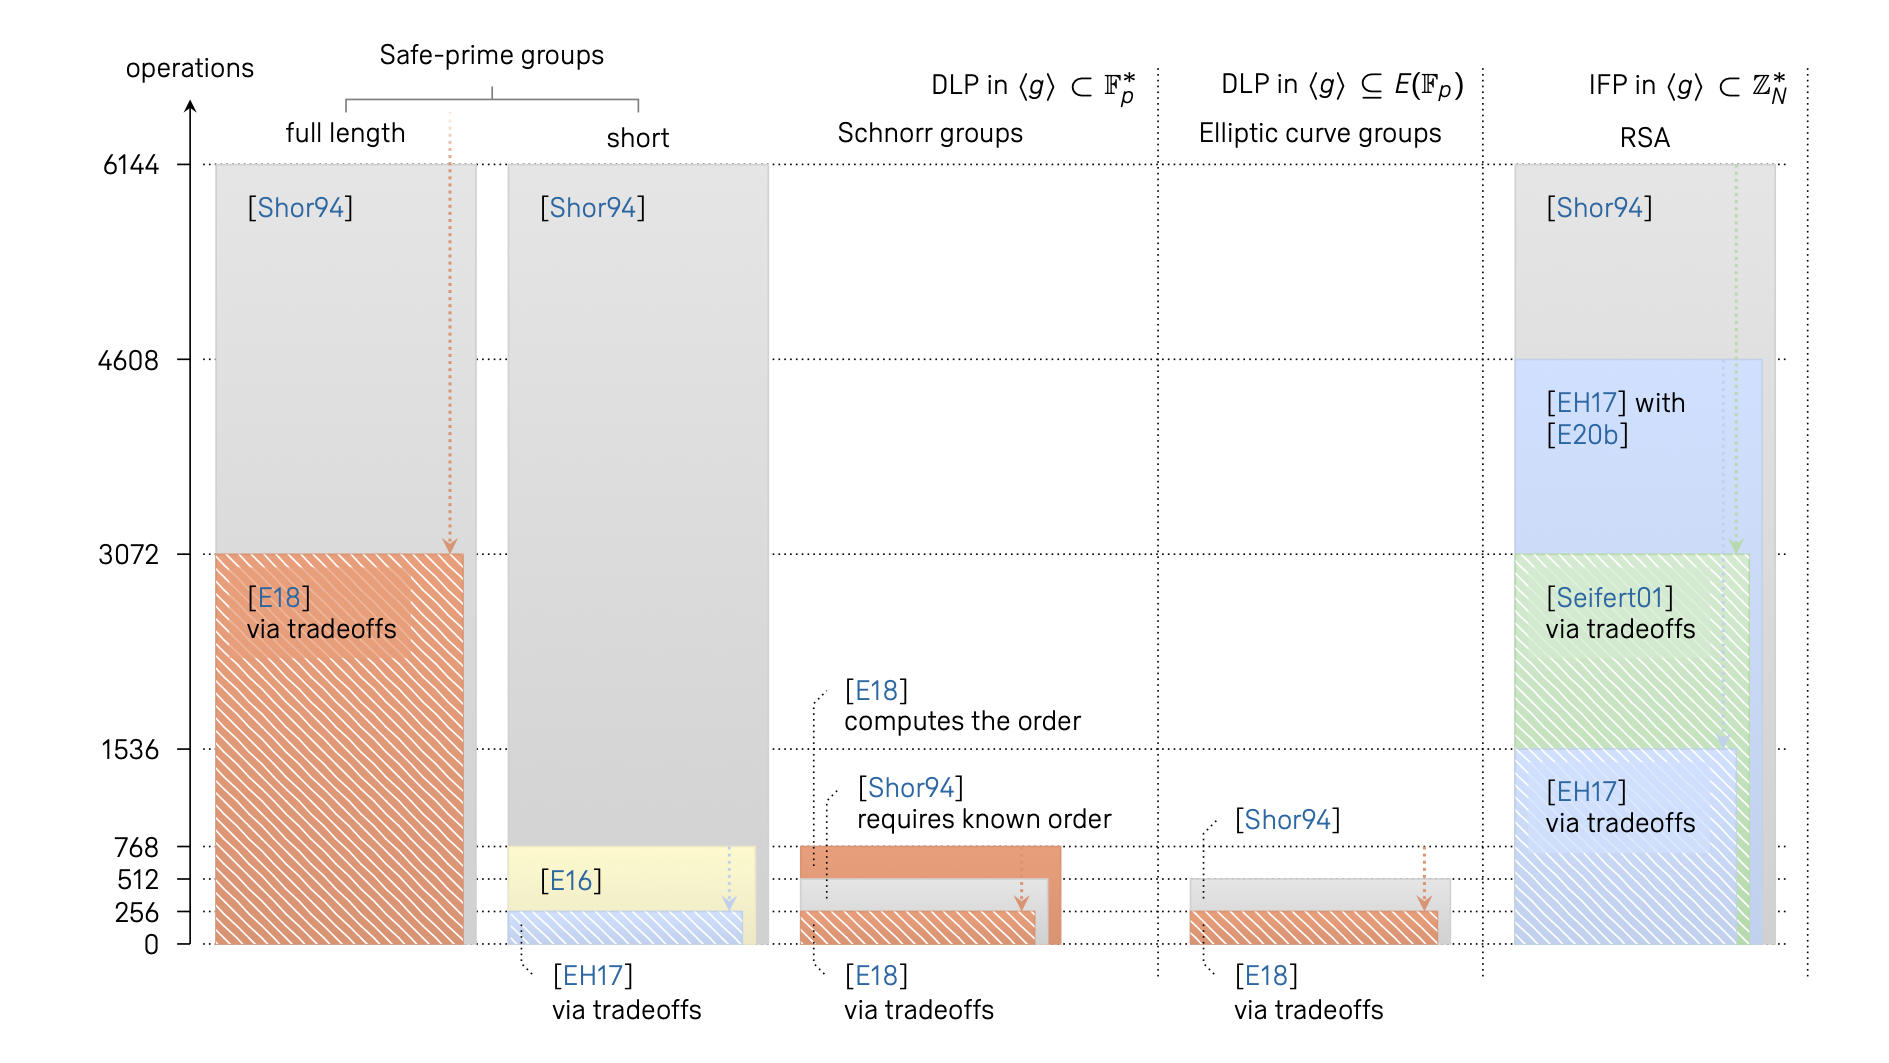
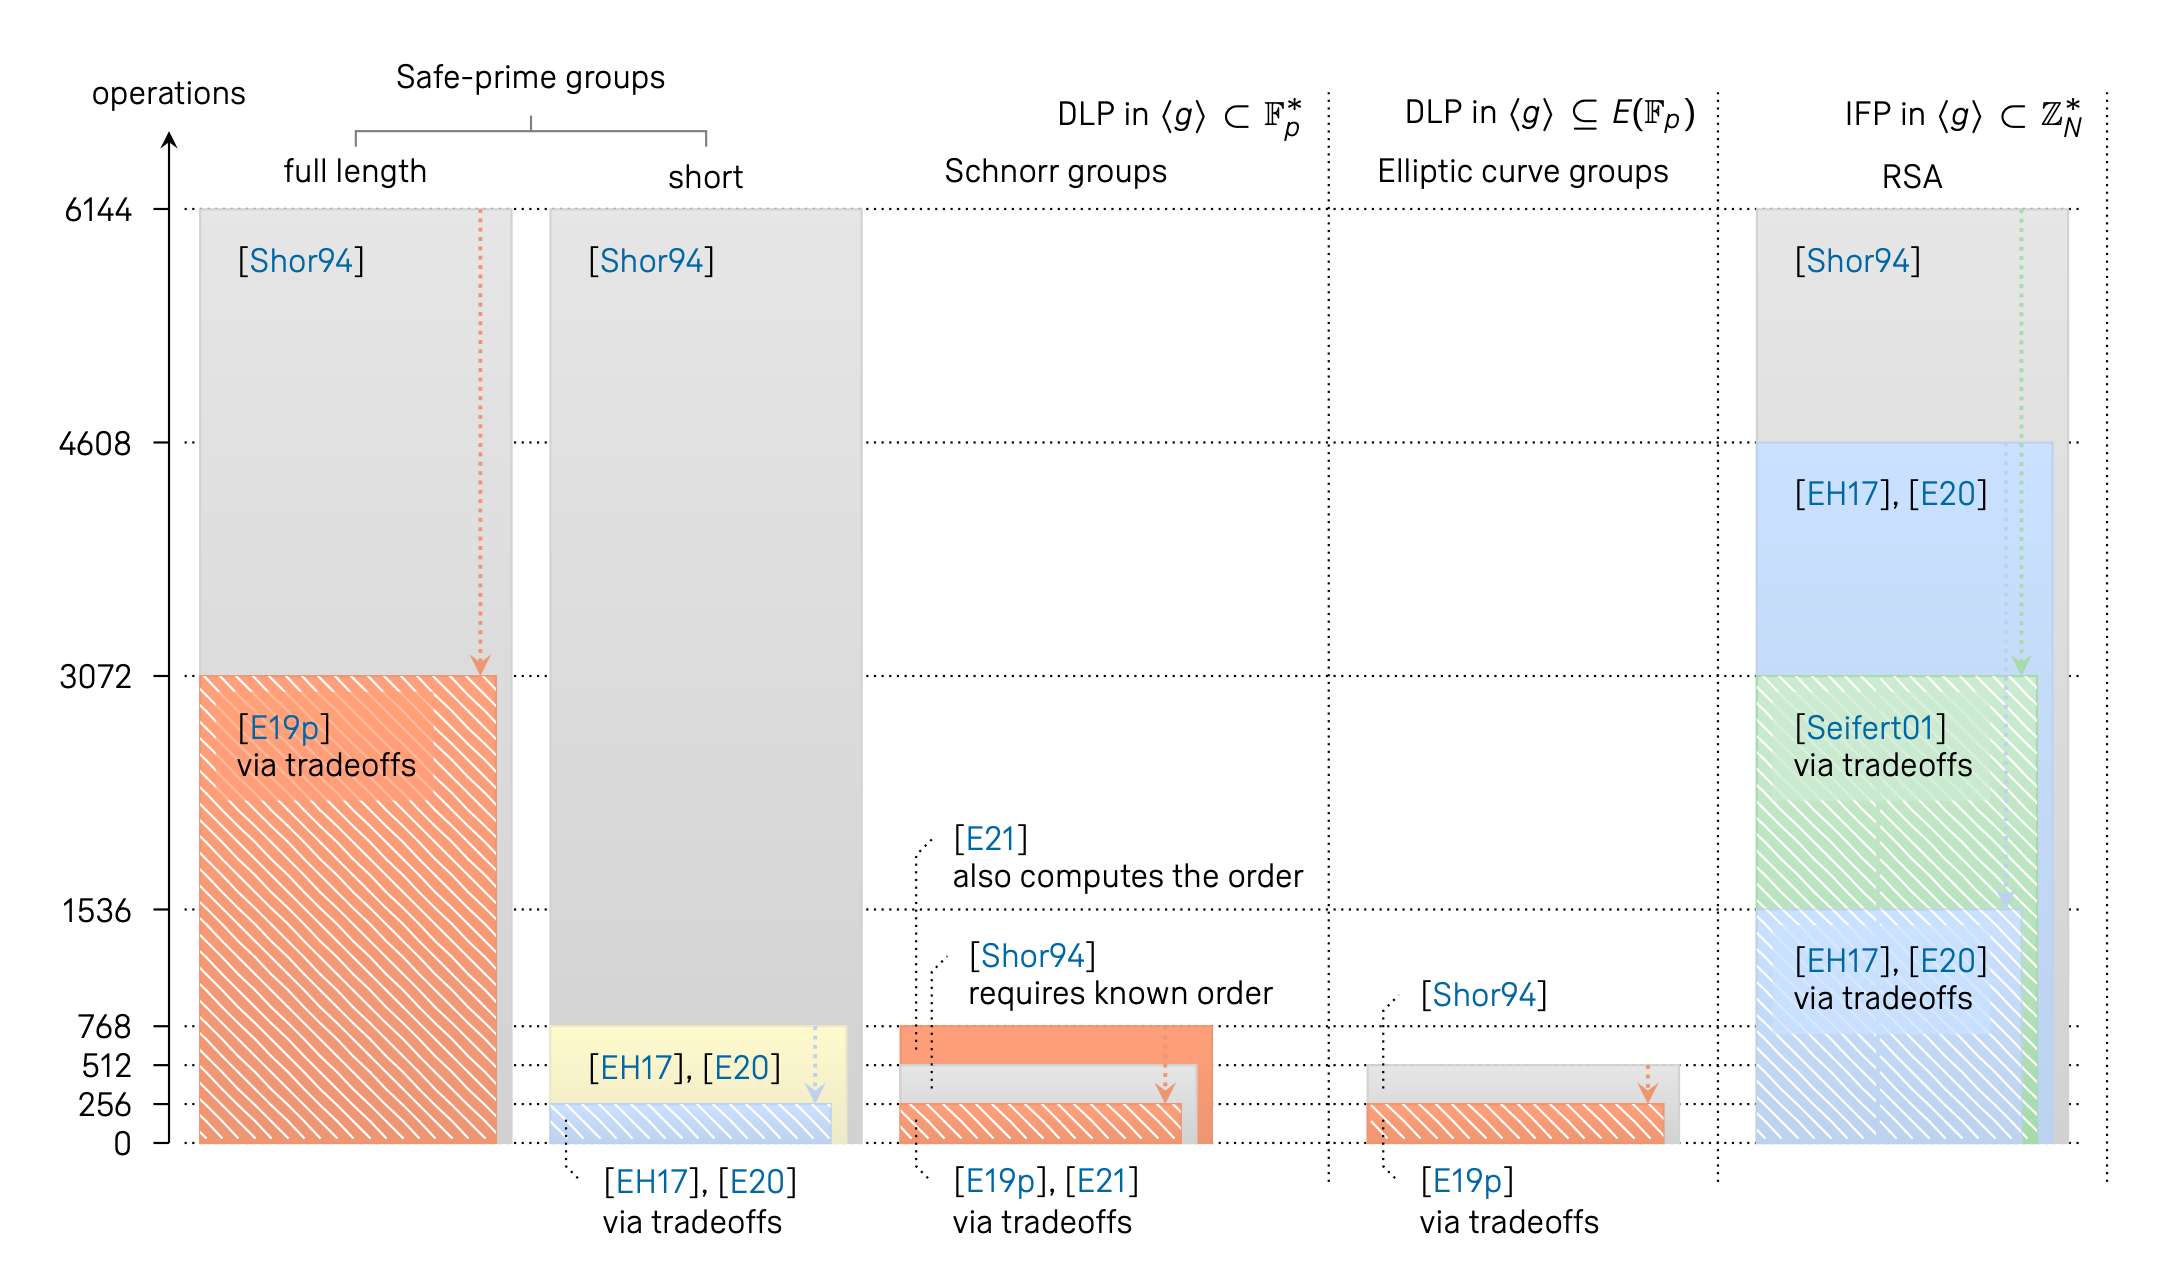
Updated the bibliographical references in the documentation

diff --git a/docs/pages/doxygen-main.md b/docs/pages/doxygen-main.md
@@ -1,17 +1,16 @@
 # Qunundrum
 This repository contains the source code of MPI programs for computing the probability distributions induced by:
 
-* Shor's order-finding algorithm [[Shor94]](https://arxiv.org/pdf/quant-ph/9508027.pdf)
-* Seifert's order-finding algorithm with tradeoffs [[Seifert01]](https://link.springer.com/chapter/10.1007%2F3-540-45353-9_24)
-* Ekerå's algorithm for computing short discrete logarithms [[E16]](https://eprint.iacr.org/2016/1128.pdf)
-* Ekerå–Håstad's algorithm for computing short discrete logarithms with tradeoffs [[EH17]](https://link.springer.com/chapter/10.1007/978-3-319-59879-6_20) [(Slides)](https://2017.pqcrypto.org/conference/slides/quantum/ekera-hastad-complex.pdf) [[E20b]](https://doi.org/10.1007/s10623-020-00783-2)
-* Ekerå–Håstad's algorithm for factoring RSA integers with tradeoffs [[EH17]](https://link.springer.com/chapter/10.1007/978-3-319-59879-6_20) [(Slides)](https://2017.pqcrypto.org/conference/slides/quantum/ekera-hastad-complex.pdf) [[E20b]](https://doi.org/10.1007/s10623-020-00783-2)
-* Ekerå's algorithm for computing general discrete logarithms and orders with tradeoffs [[E18]](https://eprint.iacr.org/2018/797.pdf)
-* Shor's algorithm for computing general discrete logarithms [[Shor94]](https://arxiv.org/pdf/quant-ph/9508027.pdf) with modifications [[E19]](https://arxiv.org/pdf/1905.09084.pdf)
+* Shor's order-finding algorithm [[Shor94]](https://doi.org/10.1109/SFCS.1994.365700) [[Shor97]](https://doi.org/10.1137/S0097539795293172)
+* Seifert's order-finding algorithm with tradeoffs [[Seifert01]](https://doi.org/10.1007/3-540-45353-9_24)
+* Ekerå–Håstad's algorithm for computing short discrete logarithms with tradeoffs [[EH17]](https://doi.org/10.1007/978-3-319-59879-6_20) [(Slides)](https://2017.pqcrypto.org/conference/slides/quantum/ekera-hastad-complex.pdf) [[E20]](https://doi.org/10.1007/s10623-020-00783-2)
+* Ekerå–Håstad's algorithm for factoring RSA integers with tradeoffs [[EH17]](https://doi.org/10.1007/978-3-319-59879-6_20) [(Slides)](https://2017.pqcrypto.org/conference/slides/quantum/ekera-hastad-complex.pdf) [[E20]](https://doi.org/10.1007/s10623-020-00783-2)
+* Ekerå's algorithm for computing general discrete logarithms and orders with tradeoffs [[E21]](https://doi.org/10.1515/jmc-2020-0006)
+* Shor's algorithm for computing general discrete logarithms [[Shor94]](https://doi.org/10.1109/SFCS.1994.365700) [[Shor97]](https://doi.org/10.1137/S0097539795293172) with modifications [[E19p]](https://arxiv.org/pdf/1905.09084.pdf)
 
 Once computed the distributions may be sampled to simulate the quantum algorithms. This is possible for large cryptographically relevant problem instances. Note however that the solution to the problem (i.e. the group order, the discrete logarithm, or in some cases both) must be known.
 
-This repository furthermore contains the source code of MPI programs that estimate the number of vectors that need to be enumerated in the classical lattice-based post-processing algorithms of Ekerå and Ekerå–Håstad, and of MPI programs that execute the post-processing algorithms with respect to simulated outputs from the quantum algorithms. For completeness, implementations of Shor's original post-processing algorithms are also provided. See also [[E20a]](https://arxiv.org/pdf/2007.10044.pdf) and [this repository](https://github.com/ekera/factoritall) for resources on efficiently factoring any integer after a single call to an order-finding algorithm.
+This repository furthermore contains the source code of MPI programs that estimate the number of vectors that need to be enumerated in the classical lattice-based post-processing algorithms of Ekerå and Ekerå–Håstad, and of MPI programs that execute the post-processing algorithms with respect to simulated outputs from the quantum algorithms. For completeness, implementations of Shor's original post-processing algorithms are also provided. See also [[E21b]](https://doi.org/10.1007/s11128-021-03069-1) and [this repository](https://github.com/ekera/factoritall) for resources on efficiently factoring any integer after a single call to an order-finding algorithm.
 
 ### Remarks
 Note that this source code was developed for academic research purposes. It grew out of our research project in an organic manner as research questions were posed and answered. It is distributed "as is" without warranty of any kind, either expressed or implied. For further details on the terms of use, see the [license](LICENSE.md).

diff --git a/README.md b/README.md
@@ -3,17 +3,16 @@
 # Qunundrum
 This repository contains the source code of MPI programs for computing the probability distributions induced by:
 
-* Shor's order-finding algorithm [[Shor94]](https://arxiv.org/pdf/quant-ph/9508027.pdf)
-* Seifert's order-finding algorithm with tradeoffs [[Seifert01]](https://link.springer.com/chapter/10.1007%2F3-540-45353-9_24)
-* Ekerå's algorithm for computing short discrete logarithms [[E16]](https://eprint.iacr.org/2016/1128.pdf)
-* Ekerå–Håstad's algorithm for computing short discrete logarithms with tradeoffs [[EH17]](https://link.springer.com/chapter/10.1007/978-3-319-59879-6_20) [(Slides)](https://2017.pqcrypto.org/conference/slides/quantum/ekera-hastad-complex.pdf) [[E20b]](https://doi.org/10.1007/s10623-020-00783-2)
-* Ekerå–Håstad's algorithm for factoring RSA integers with tradeoffs [[EH17]](https://link.springer.com/chapter/10.1007/978-3-319-59879-6_20) [(Slides)](https://2017.pqcrypto.org/conference/slides/quantum/ekera-hastad-complex.pdf) [[E20b]](https://doi.org/10.1007/s10623-020-00783-2)
-* Ekerå's algorithm for computing general discrete logarithms and orders with tradeoffs [[E18]](https://eprint.iacr.org/2018/797.pdf)
-* Shor's algorithm for computing general discrete logarithms [[Shor94]](https://arxiv.org/pdf/quant-ph/9508027.pdf) with modifications [[E19]](https://arxiv.org/pdf/1905.09084.pdf)
+* Shor's order-finding algorithm [[Shor94]](https://doi.org/10.1109/SFCS.1994.365700) [[Shor97]](https://doi.org/10.1137/S0097539795293172)
+* Seifert's order-finding algorithm with tradeoffs [[Seifert01]](https://doi.org/10.1007/3-540-45353-9_24)
+* Ekerå–Håstad's algorithm for computing short discrete logarithms with tradeoffs [[EH17]](https://doi.org/10.1007/978-3-319-59879-6_20) [(Slides)](https://2017.pqcrypto.org/conference/slides/quantum/ekera-hastad-complex.pdf) [[E20]](https://doi.org/10.1007/s10623-020-00783-2)
+* Ekerå–Håstad's algorithm for factoring RSA integers with tradeoffs [[EH17]](https://doi.org/10.1007/978-3-319-59879-6_20) [(Slides)](https://2017.pqcrypto.org/conference/slides/quantum/ekera-hastad-complex.pdf) [[E20]](https://doi.org/10.1007/s10623-020-00783-2)
+* Ekerå's algorithm for computing general discrete logarithms and orders with tradeoffs [[E21]](https://doi.org/10.1515/jmc-2020-0006)
+* Shor's algorithm for computing general discrete logarithms [[Shor94]](https://doi.org/10.1109/SFCS.1994.365700) [[Shor97]](https://doi.org/10.1137/S0097539795293172) with modifications [[E19p]](https://arxiv.org/pdf/1905.09084.pdf)
 
 Once computed the distributions may be sampled to simulate the quantum algorithms. This is possible for large cryptographically relevant problem instances. Note however that the solution to the problem (i.e. the group order, the discrete logarithm, or in some cases both) must be known.
 
-This repository furthermore contains the source code of MPI programs that estimate the number of vectors that need to be enumerated in the classical lattice-based post-processing algorithms of Ekerå and Ekerå–Håstad, and of MPI programs that execute the post-processing algorithms with respect to simulated outputs from the quantum algorithms. For completeness, implementations of Shor's original post-processing algorithms are also provided. See also [[E20a]](https://arxiv.org/pdf/2007.10044.pdf) and [this repository](https://github.com/ekera/factoritall) for resources on efficiently factoring any integer after a single call to an order-finding algorithm.
+This repository furthermore contains the source code of MPI programs that estimate the number of vectors that need to be enumerated in the classical lattice-based post-processing algorithms of Ekerå and Ekerå–Håstad, and of MPI programs that execute the post-processing algorithms with respect to simulated outputs from the quantum algorithms. For completeness, implementations of Shor's original post-processing algorithms are also provided. See also [[E21b]](https://doi.org/10.1007/s11128-021-03069-1) and [this repository](https://github.com/ekera/factoritall) for resources on efficiently factoring any integer after a single call to an order-finding algorithm.
 
 ### Algorithm comparisons
 In the below diagram, the above algorithms are compared with respect to the number of group operations that they perform quantumly in each run, when solving cryptographically relevant problems.

diff --git a/docs/pages/generate-diagonal-distribution.md b/docs/pages/generate-diagonal-distribution.md
@@ -8,11 +8,11 @@ Synopsis: mpirun generate_diagonal_distribution \
           -l   <m> <sigma> <l> { <m> <sigma> <l> } )
 ```
 
-Computes a part of the distribution induced by Shor's algorithm for computing general discrete logarithms when modified as in [[E19]](https://arxiv.org/pdf/1905.09084.pdf).
+Computes a part of the distribution induced by Shor's algorithm for computing general discrete logarithms when modified as in [[E19p]](https://arxiv.org/pdf/1905.09084.pdf).
 
 The full distribution is two-dimensional in (alpha_d, alpha_r), or equivalently, in(theta_d, theta_r).
 
-This executable computes and stores a one-dimensional distribution in alpha_r using the expression for f(theta_r) given in [[E19]](https://arxiv.org/pdf/1905.09084.pdf). The distribution in phi = theta_d - d/r theta_r is computed on the fly using the expression for h(phi) given in [[E19]](https://arxiv.org/pdf/1905.09084.pdf) by the executables that use the distribution.
+This executable computes and stores a one-dimensional distribution in alpha_r using the expression for f(theta_r) given in [[E19p]](https://arxiv.org/pdf/1905.09084.pdf). The distribution in phi = theta_d - d/r theta_r is computed on the fly using the expression for h(phi) given in [[E19p]](https://arxiv.org/pdf/1905.09084.pdf) by the executables that use the distribution.
 
 The distribution is said to be diagonal, since we expect interference on the diagonal in the argument plane where the angle phi is small.
 The executable is named accordingly.
@@ -41,4 +41,4 @@ Flags controlling the value of d and r (defaults to <code>-det</code>):
 Flags controlling the dimension (defaults to 2048):
 - <code>-dim \<dimension\></code> sets the dimension to <code>\<dimension\></code>
 
-The dimension specifies the resolution of the histogram. Must be a power of two. The dimension is 2^nu in [[E19]](https://arxiv.org/pdf/1905.09084.pdf). See [[E19]](https://arxiv.org/pdf/1905.09084.pdf) for a complete description of how the histogram is constructed in two steps.
+The dimension specifies the resolution of the histogram. Must be a power of two. The dimension is 2^nu in [[E19p]](https://arxiv.org/pdf/1905.09084.pdf). See [[E19p]](https://arxiv.org/pdf/1905.09084.pdf) for a complete description of how the histogram is constructed in two steps.

diff --git a/docs/pages/solve-diagonal-distribution-shor.md b/docs/pages/solve-diagonal-distribution-shor.md
@@ -7,7 +7,7 @@ Synopsis: mpirun solve_diagonal_distribution_shor \
       <distribution> { <distribution> }
 ```
 
-Simulates the quantum algorithm by sampling the distribution, and solves the simulated outputs for d given r using Shor's original post-processing algorithm modified to search over t as explained in [[E19]](https://arxiv.org/pdf/1905.09084.pdf).
+Simulates the quantum algorithm by sampling the distribution, and solves the simulated outputs for d given r using Shor's original post-processing algorithm modified to search over t as explained in [[E19p]](https://arxiv.org/pdf/1905.09084.pdf).
 
 In total 10^3 problem instances are consider to gather statistics.
 
@@ -24,8 +24,8 @@ Flags specifying the search bound (defaults to zero):
 - <code>-search-bound \<bound\></code> sets the search bound on |t| to <code>\<bound\></code>
 
 Note that alpha_d = round(alpha_r d/r) + Delta for some small Delta.
-The search bound on t is related to Delta, as is explained in detail in Section 5.1 of [[E19]](https://arxiv.org/pdf/1905.09084.pdf).
-Searching over t as proposed in [[E19]](https://arxiv.org/pdf/1905.09084.pdf) increases the success probability.
+The search bound on t is related to Delta, as is explained in detail in Section 5.1 of [[E19p]](https://arxiv.org/pdf/1905.09084.pdf).
+Searching over t as proposed in [[E19p]](https://arxiv.org/pdf/1905.09084.pdf) increases the success probability.
 
 ## Interpreting the output
 The log file <code>logs/solve-diagonal-shor.txt</code> is on the format

diff --git a/docs/pages/plot-diagonal-distribution.md b/docs/pages/plot-diagonal-distribution.md
@@ -37,4 +37,4 @@ The plot generated is in the signed logarithm of the argument alpha_r:
 
 ![](./images/plot-diagonal-distribution-m-2048-sigma-5-s-1.png)
 
-Note that diagonal distributions store a one-dimensional distribution in alpha_r using the expression for f(theta_r) given in [[E19]](https://arxiv.org/pdf/1905.09084.pdf). The distribution in phi = theta_d - d/r theta_r is computed on the fly using the expression for h(phi) given in [[E19]](https://arxiv.org/pdf/1905.09084.pdf) by the executables that use the distribution.
+Note that diagonal distributions store a one-dimensional distribution in alpha_r using the expression for f(theta_r) given in [[E19p]](https://arxiv.org/pdf/1905.09084.pdf). The distribution in phi = theta_d - d/r theta_r is computed on the fly using the expression for h(phi) given in [[E19p]](https://arxiv.org/pdf/1905.09084.pdf) by the executables that use the distribution.
